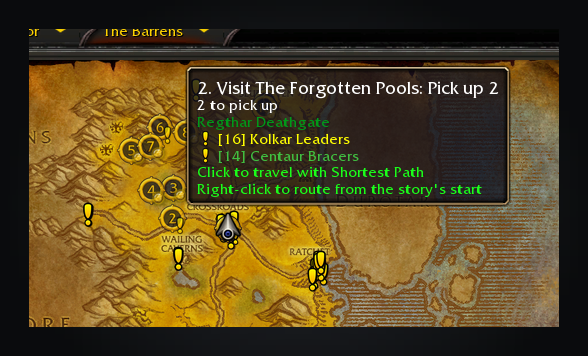
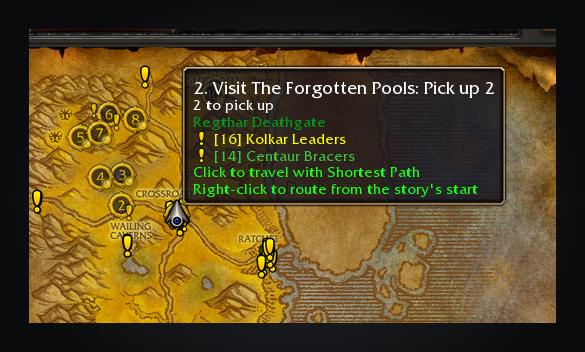
feat(map): mark every NPC and object a town visit covers
A town visit drew one numbered stop, so a quest handed in or picked up at a spot
away from it, such as Buzzbox 411 inside Bashal'Aran's area, never showed where
it is. Each visit now carries its spots, built where the visit is, and the map
draws a small quest mark at every one the numbered stop is not already on.

Closes #476

Claude-Session: https://claude.ai/code/session_01UkMWrwpRzYWzVUN5AEKM3S

diff --git a/docs/design.md b/docs/design.md
@@ -47,7 +47,9 @@ abandons quests.
   Completed objectives leave the stop during combat without clearing unfinished work.
 - **2.6 Pins.** Draw only known locations and step aside while Shortest Path supplies guidance. While the player
   stands in the current step's objective area, the world map shows that area's full outline in yellow, the minimap
-  turns the game's own quest area gold, and the step's own pin and line step aside.
+  turns the game's own quest area gold, and the step's own pin and line step aside. A town visit keeps one numbered
+  stop, and every other NPC or object it covers draws a small mark at its own spot, with its name and the quests done
+  there in its tooltip.
 - **2.7 Completion.** Record a proven story ending once per character and show a native-style popup with one completion sound. Tracker visibility does not affect it.
 - **2.8 Menus.** Share step actions between the guide and tracker. An area with more than one objective spot (each
   objective's node and its other camps on that map, AreaNode's `alternates`; standing at any of them is standing in

diff --git a/CHANGELOG.md b/CHANGELOG.md
@@ -12,6 +12,7 @@ optional `### For addon authors` subsection after a version's player bullets.
 
 ## [Unreleased]
 
+- **A town visit shows every NPC and object it covers on the map.** The numbered stop still marks where the visit begins, and a small quest mark now sits on each giver or object the visit includes, so a hand-in away from the town's NPCs, such as Buzzbox 411 in Darkshore, shows where it actually is. Hovering one names the NPC or object and the quests done there.
 - **The Forever addons settings page no longer writes the client's bare `Text` name.** Its check box came from a Blizzard template under an unnamed page, so the label landed on a global another addon or the game could read as its own. The page is named now (cjber/forever-core#208).
 
 ## [1.1.15] - 2026-11-08
